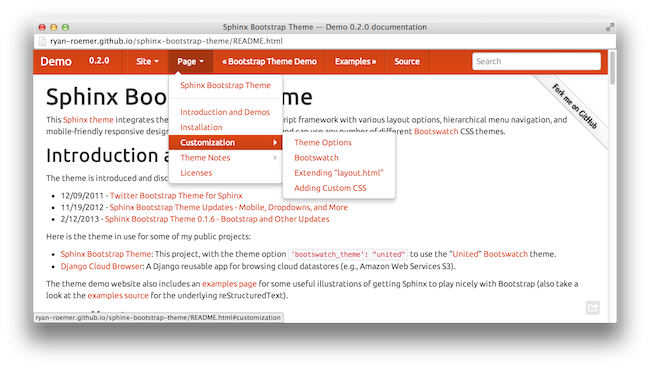
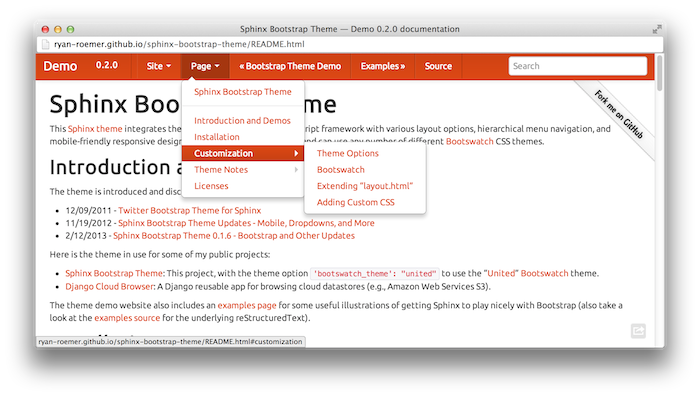
Badges css tweak, new th image.

diff --git a/media/css/default.css b/media/css/default.css
@@ -1,1 +1,1 @@
-.clearfix{*zoom:1}.clearfix:before,.clearfix:after{display:table;line-height:0;content:""}.clearfix:after{clear:both}.hide-text{font:0/0 a;color:transparent;text-shadow:none;background-color:transparent;border:0}.input-block-level{display:block;width:100%;min-height:28px;-webkit-box-sizing:border-box;-moz-box-sizing:border-box;box-sizing:border-box}body{color:#222;background-color:#ccc}header{background-color:#000}header .navbar .brand{font-size:1.5em;font-weight:bold}header .navbar a.brand,header .navbar a.brand:visited{color:#fff}header div.title{padding:.5em;margin-right:auto;margin-bottom:10px;margin-left:auto;color:#fff}header div.title h1{float:left;padding-top:.2em;padding-right:.5em;padding-bottom:.2em;margin:0;margin-right:.5em;font-size:2.5em;font-weight:600;border-right:1px solid #fff}header div.title p{padding-top:.45em;margin:0;font-size:1.15em;font-weight:350;color:#ccc;text-align:left}header div.title a,header div.title a:active,header div.title a:visited,header div.title a:hover{color:#fff;text-decoration:none}@media(min-width:768px){.header-container{width:600px;margin-right:auto;margin-left:auto}.pull-center{text-align:center}.pull-center .nav{display:inline-block;*display:inline;float:none;height:32px;*zoom:1}}#main h2,#post h2,div.page h2,#main h3,#post h3,div.page h3,#main h4,#post h4,div.page h4{color:#555}#main h2.title,#post h2.title,div.page h2.title{margin-top:0;text-align:center}#main h2.title a,#post h2.title a,div.page h2.title a,#main h2.title a:active,#post h2.title a:active,div.page h2.title a:active,#main h2.title a:visited,#post h2.title a:visited,div.page h2.title a:visited,#main h2.title a:hover,#post h2.title a:hover,div.page h2.title a:hover{color:#222;text-decoration:none}#main .inner{padding:20px;margin-top:5px;margin-bottom:25px;background:#fff;-webkit-border-radius:10px;-moz-border-radius:10px;border-radius:10px;-webkit-box-shadow:3px 5px 5px #999;-moz-box-shadow:3px 5px 5px #999;box-shadow:3px 5px 5px #999}.ie6 #main .inner,.ie7 #main .inner,.ie8 #main .inner{border:2px solid #999}.date,.tags span.section{margin-bottom:2px;font-style:italic}.tags{text-align:right}.tags .badge{padding:4px 7px;margin-bottom:2px}.tags a,.tags a:active,.tags a:visited,.tags a:hover{color:#fff;text-decoration:none}.post{margin-bottom:25px}.post .more{font-style:italic}.archive time{font-weight:bold}img.bordered{position:relative;margin:5px;border:0;-webkit-box-shadow:3px 3px 4px #999;-moz-box-shadow:3px 3px 4px #999;box-shadow:3px 3px 4px #999}.ie6 img.bordered,.ie7 img.bordered,.ie8 img.bordered{border:2px solid #999}article p img,.excerpt p img{display:block;margin-right:auto;margin-left:auto;text-align:center;border:0}@media(max-width:767px){body{padding-right:0;padding-left:0;margin-right:0;margin-left:0}.navbar{margin-bottom:5px}#main h1,#post h1,div.page h1,#main h2,#post h2,div.page h2,#main h3,#post h3,div.page h3{line-height:31.5px}#main h1,#post h1,div.page h1{font-size:38.5px}#main h2,#post h2,div.page h2{font-size:28px}#main h3,#post h3,div.page h3{font-size:21px}#main .inner{padding:15px}}p code{background-color:#fff}pre{position:relative overflow:auto!important;display:block;padding:7px;background-color:#f9f9f9;border:1px solid #ccc}pre code,.gist .gist-file .gist-data{display:block;padding:20px 15px;overflow:auto!important;font-family:Monaco,monospace;color:#fff;background-color:#222!important}pre,.gist .gist-file{border:1px solid #ccc;-webkit-border-radius:3px;-moz-border-radius:3px;border-radius:3px;-webkit-box-shadow:2px 5px 5px #aaa;-moz-box-shadow:2px 5px 5px #aaa;box-shadow:2px 5px 5px #aaa}.ie6 pre,.ie6 .gist .gist-file,.ie7 pre,.ie7 .gist .gist-file,.ie8 pre,.ie8 .gist .gist-file{border:2px solid #aaa}.highlight span{background-color:#222!important}
+.clearfix{*zoom:1}.clearfix:before,.clearfix:after{display:table;line-height:0;content:""}.clearfix:after{clear:both}.hide-text{font:0/0 a;color:transparent;text-shadow:none;background-color:transparent;border:0}.input-block-level{display:block;width:100%;min-height:28px;-webkit-box-sizing:border-box;-moz-box-sizing:border-box;box-sizing:border-box}body{color:#222;background-color:#ccc}header{background-color:#000}header .navbar .brand{font-size:1.5em;font-weight:bold}header .navbar a.brand,header .navbar a.brand:visited{color:#fff}header div.title{padding:.5em;margin-right:auto;margin-bottom:10px;margin-left:auto;color:#fff}header div.title h1{float:left;padding-top:.2em;padding-right:.5em;padding-bottom:.2em;margin:0;margin-right:.5em;font-size:2.5em;font-weight:600;border-right:1px solid #fff}header div.title p{padding-top:.45em;margin:0;font-size:1.15em;font-weight:350;color:#ccc;text-align:left}header div.title a,header div.title a:active,header div.title a:visited,header div.title a:hover{color:#fff;text-decoration:none}@media(min-width:768px){.header-container{width:600px;margin-right:auto;margin-left:auto}.pull-center{text-align:center}.pull-center .nav{display:inline-block;*display:inline;float:none;height:32px;*zoom:1}}#main h2,#post h2,div.page h2,#main h3,#post h3,div.page h3,#main h4,#post h4,div.page h4{color:#555}#main h2.title,#post h2.title,div.page h2.title{margin-top:0;text-align:center}#main h2.title a,#post h2.title a,div.page h2.title a,#main h2.title a:active,#post h2.title a:active,div.page h2.title a:active,#main h2.title a:visited,#post h2.title a:visited,div.page h2.title a:visited,#main h2.title a:hover,#post h2.title a:hover,div.page h2.title a:hover{color:#222;text-decoration:none}#main .inner{padding:20px;margin-top:5px;margin-bottom:25px;background:#fff;-webkit-border-radius:10px;-moz-border-radius:10px;border-radius:10px;-webkit-box-shadow:3px 5px 5px #999;-moz-box-shadow:3px 5px 5px #999;box-shadow:3px 5px 5px #999}.ie6 #main .inner,.ie7 #main .inner,.ie8 #main .inner{border:2px solid #999}.date,.tags span.section{margin-bottom:2px;font-style:italic}.tags{text-align:right}.tags .badge{padding:4px 7px;margin-bottom:2px;border:1px solid #ccc}.tags a,.tags a:active,.tags a:visited,.tags a:hover{color:#fff;text-decoration:none}.post{margin-bottom:25px}.post .more{font-style:italic}.archive time{font-weight:bold}img.bordered{position:relative;margin:5px;border:0;-webkit-box-shadow:3px 3px 4px #999;-moz-box-shadow:3px 3px 4px #999;box-shadow:3px 3px 4px #999}.ie6 img.bordered,.ie7 img.bordered,.ie8 img.bordered{border:2px solid #999}article p img,.excerpt p img{display:block;margin-right:auto;margin-left:auto;text-align:center;border:0}@media(max-width:767px){body{padding-right:0;padding-left:0;margin-right:0;margin-left:0}.navbar{margin-bottom:5px}#main h1,#post h1,div.page h1,#main h2,#post h2,div.page h2,#main h3,#post h3,div.page h3{line-height:31.5px}#main h1,#post h1,div.page h1{font-size:38.5px}#main h2,#post h2,div.page h2{font-size:28px}#main h3,#post h3,div.page h3{font-size:21px}#main .inner{padding:15px}}p code{background-color:#fff}pre{position:relative overflow:auto!important;display:block;padding:7px;background-color:#f9f9f9;border:1px solid #ccc}pre code,.gist .gist-file .gist-data{display:block;padding:20px 15px;overflow:auto!important;font-family:Monaco,monospace;color:#fff;background-color:#222!important}pre,.gist .gist-file{border:1px solid #ccc;-webkit-border-radius:3px;-moz-border-radius:3px;border-radius:3px;-webkit-box-shadow:2px 5px 5px #aaa;-moz-box-shadow:2px 5px 5px #aaa;box-shadow:2px 5px 5px #aaa}.ie6 pre,.ie6 .gist .gist-file,.ie7 pre,.ie7 .gist .gist-file,.ie8 pre,.ie8 .gist .gist-file{border:2px solid #aaa}.highlight span{background-color:#222!important}

diff --git a/_less/default.less b/_less/default.less
@@ -160,6 +160,7 @@ div.page {
   .badge {
     padding: 4px 7px;
     margin-bottom: 2px;
+    border: 1px solid #ccc;
   }
 
   a, a:active, a:visited, a:hover {
